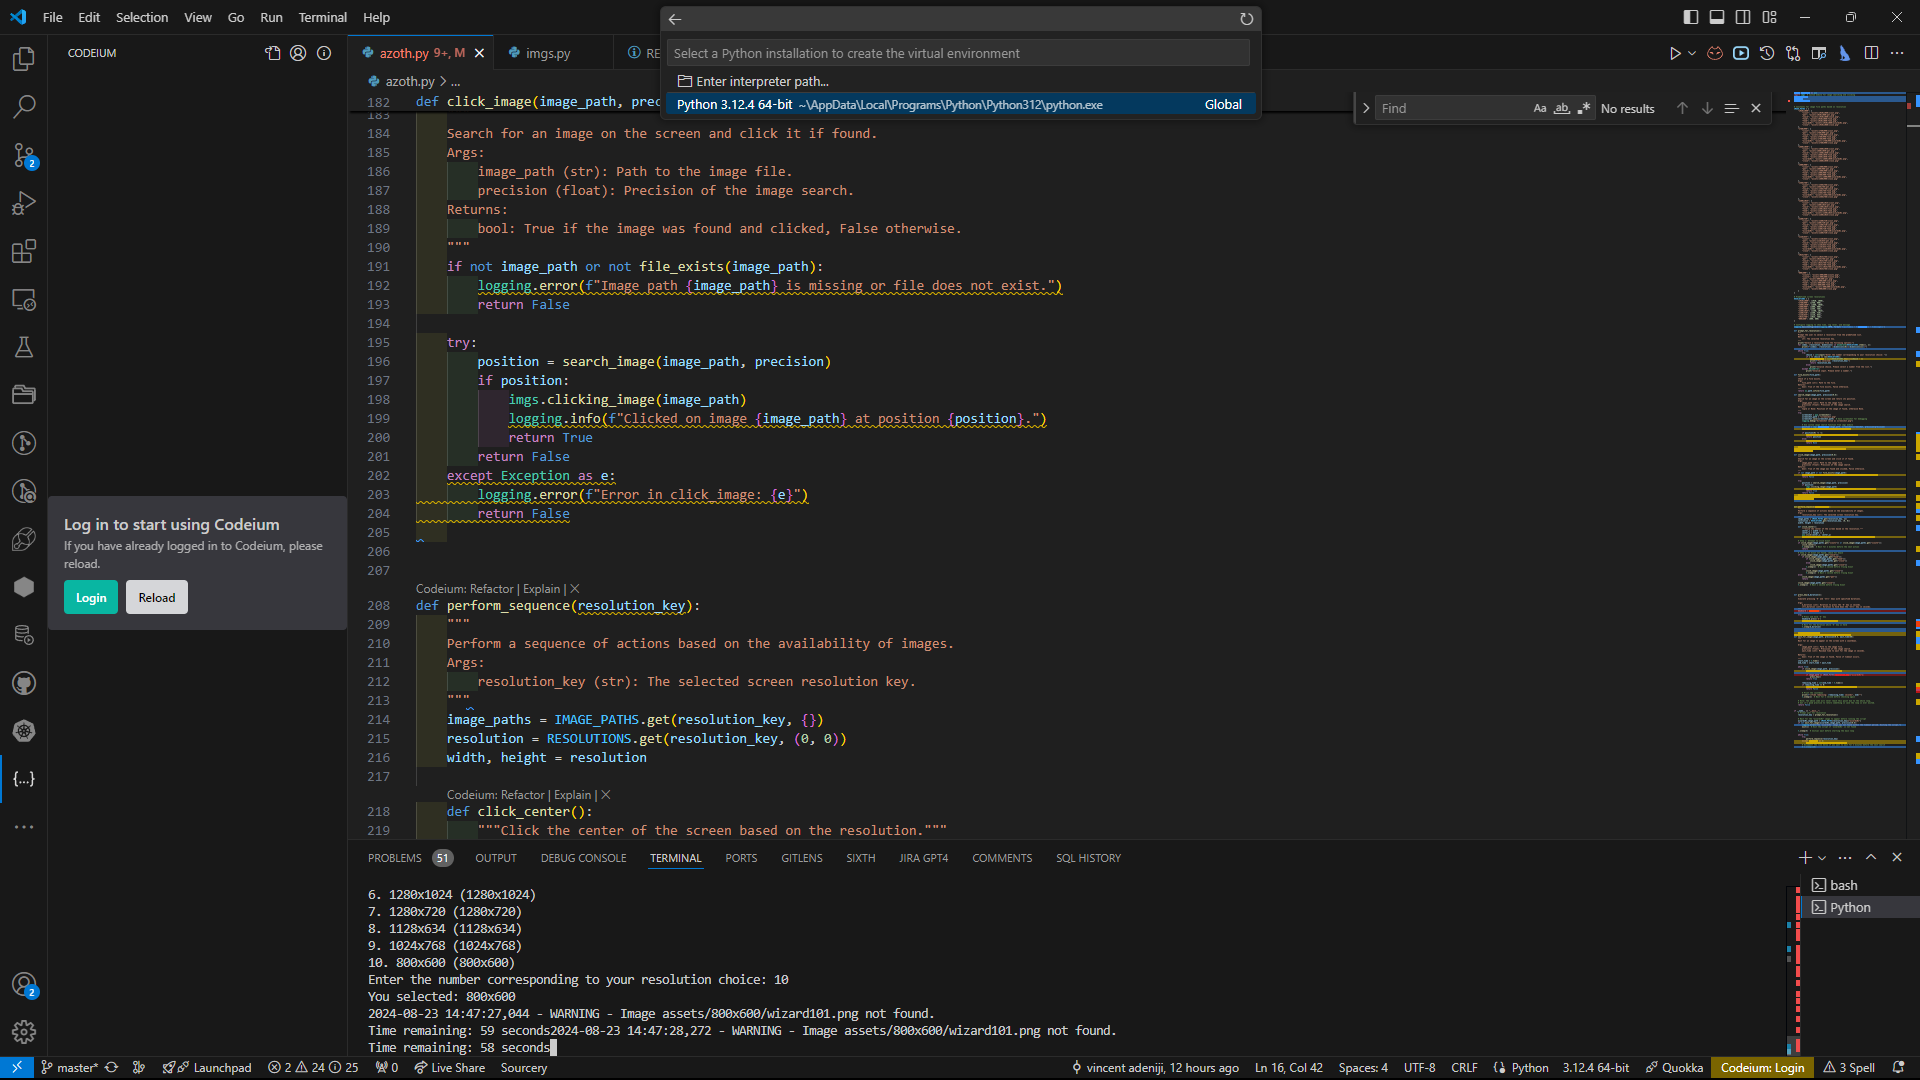
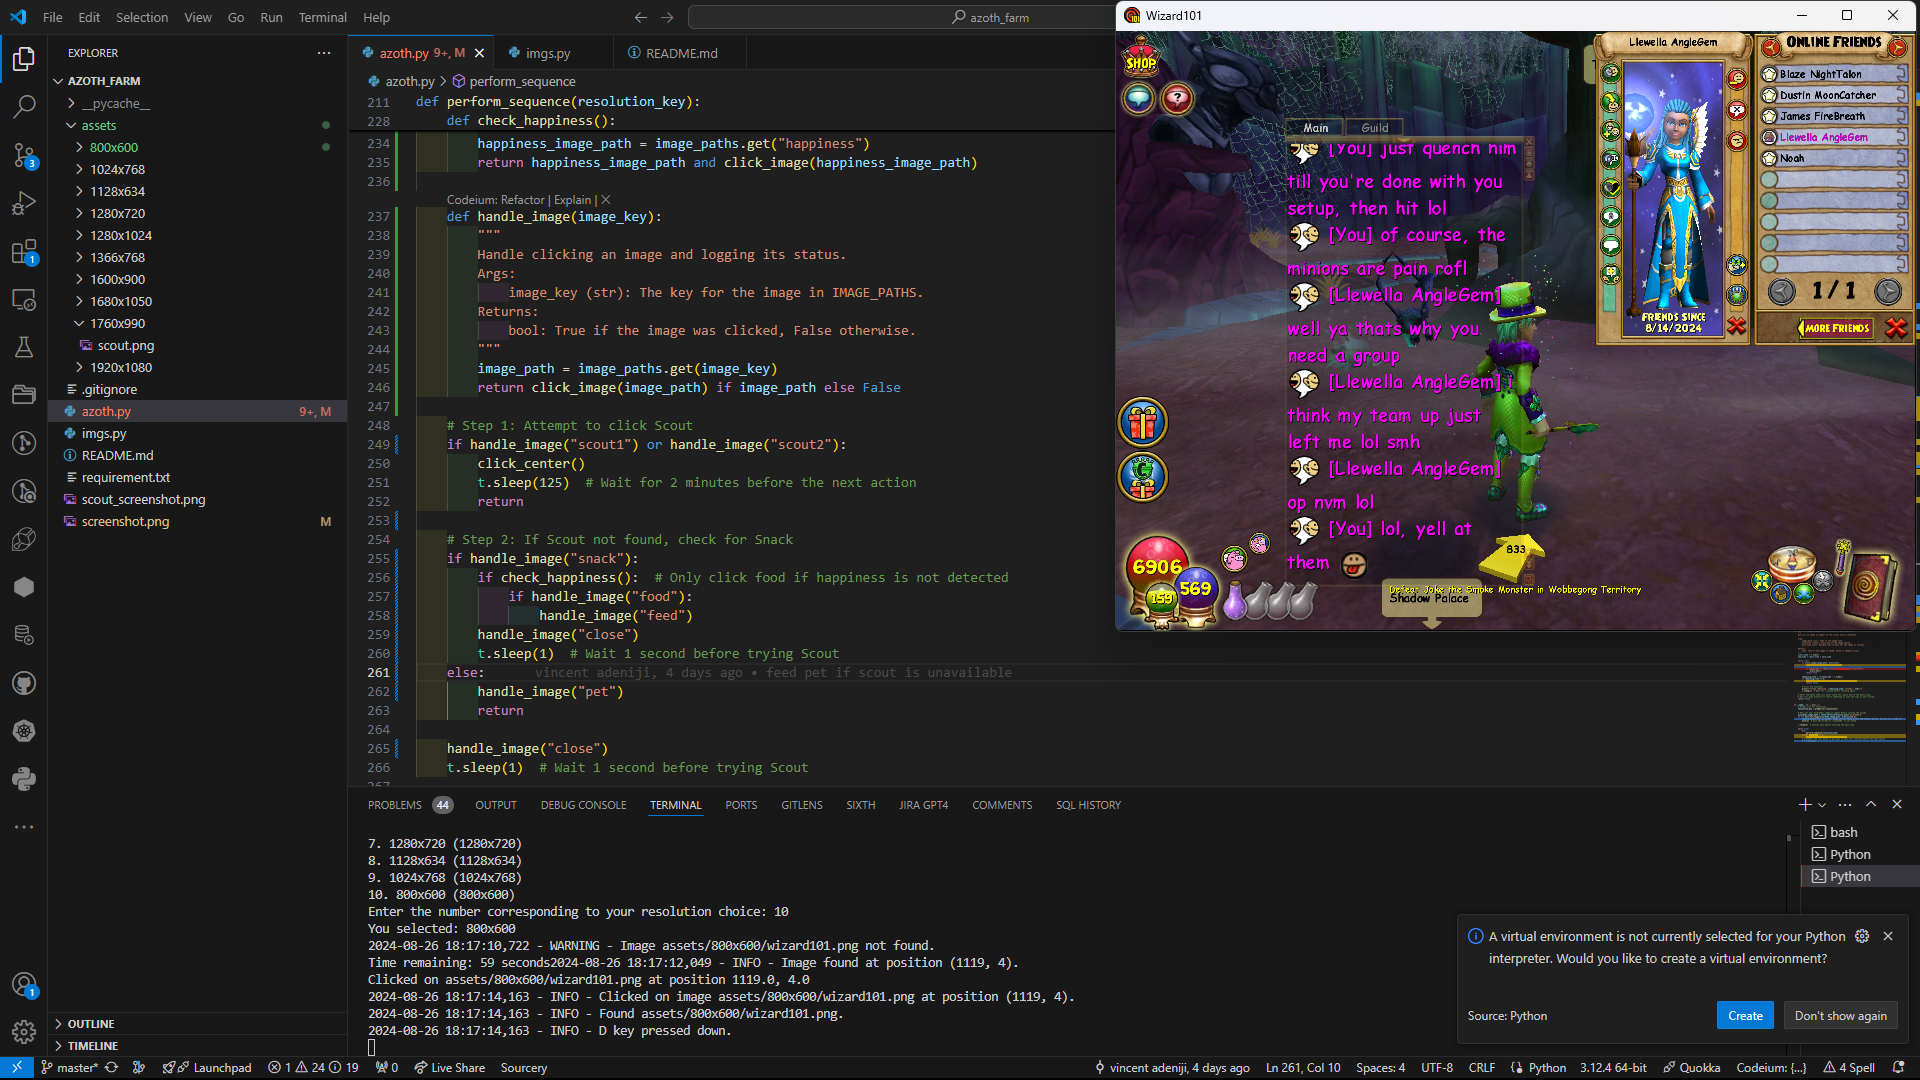
only feed when happiness  is zero

diff --git a/azoth.py b/azoth.py
@@ -3,6 +3,8 @@ import imgs  # Custom module for image searching and clicking
 import logging
 import os
 import time as t
+from pynput.keyboard import Key, Controller
+
 
 
 # Constants for image file paths based on resolution
@@ -96,7 +98,8 @@ IMAGE_PATHS = {
         "food": "assets/800x600/food.png",
         "feed": "assets/800x600/feed.png",
         "wizard101": "assets/800x600/wizard101.png",
-        "close": "assets/800x600/close.png"
+        "close": "assets/800x600/close.png",
+        "happiness": "assets/800x600/happiness.png"
     }
 }
 
@@ -210,7 +213,7 @@ def perform_sequence(resolution_key):
     Perform a sequence of actions based on the availability of images.
     Args:
         resolution_key (str): The selected screen resolution key.
-    """    
+    """
     image_paths = IMAGE_PATHS.get(resolution_key, {})
     resolution = RESOLUTIONS.get(resolution_key, (0, 0))
     width, height = resolution
@@ -222,29 +225,46 @@ def perform_sequence(resolution_key):
         pya.click(center_x, center_y)
         logging.info(f"Clicked center of the screen at ({center_x}, {center_y})")
 
+    def check_happiness():
+        """
+        Check for the presence of the happiness image.
+        Returns:
+            bool: True if happiness is detected, False otherwise.
+        """
+        happiness_image_path = image_paths.get("happiness")
+        return happiness_image_path and click_image(happiness_image_path)
+
+    def handle_image(image_key):
+        """
+        Handle clicking an image and logging its status.
+        Args:
+            image_key (str): The key for the image in IMAGE_PATHS.
+        Returns:
+            bool: True if the image was clicked, False otherwise.
+        """
+        image_path = image_paths.get(image_key)
+        return click_image(image_path) if image_path else False
+
     # Step 1: Attempt to click Scout
-    if click_image(image_paths.get("scout1")) or click_image(image_paths.get("scout2")):
+    if handle_image("scout1") or handle_image("scout2"):
         click_center()
         t.sleep(125)  # Wait for 2 minutes before the next action
         return
-    
+
     # Step 2: If Scout not found, check for Snack
-    if click_image(image_paths.get("snack")):
-        if click_image(image_paths.get("food")):
-            if click_image(image_paths.get("feed")):
-                click_image(image_paths.get("close"))
-            else:
-                click_image(image_paths.get("close"))
-            t.sleep(1)  # Wait 1 second before trying Scout
-        else:
-            click_image(image_paths.get("close"))
-            t.sleep(1)  # Wait 1 second before trying Scout
+    if handle_image("snack"):
+        if check_happiness():  # Only click food if happiness is not detected
+            if handle_image("food"):
+                handle_image("feed")
+        handle_image("close")
+        t.sleep(1)  # Wait 1 second before trying Scout
     else:
-        click_image(image_paths.get("pet"))
+        handle_image("pet")
         return
 
-    click_image(image_paths.get("close"))
+    handle_image("close")
     t.sleep(1)  # Wait 1 second before trying Scout
+
 
 
 
